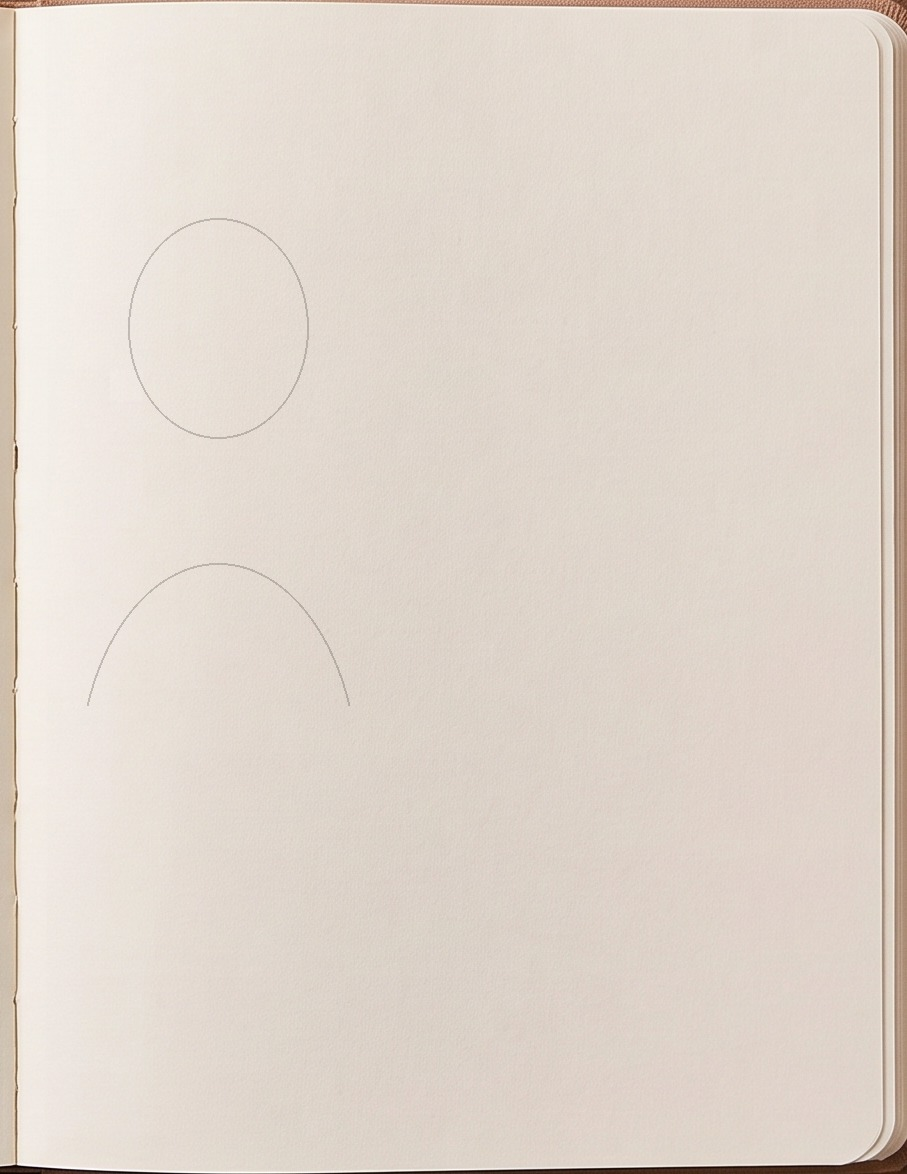
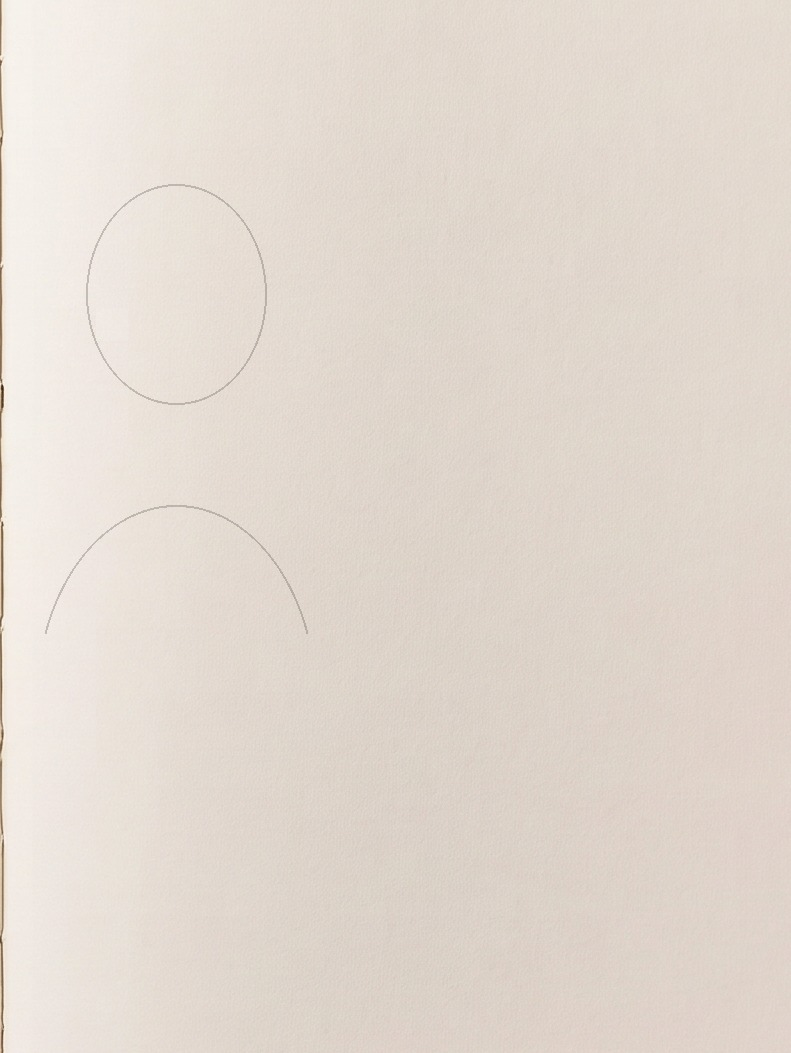
Fix desktop fullscreen morph and crop pages without cover.
Animate the screen morph to true viewport size before handing off to
the desktop shell, and tighten sketchbook page faces to cream paper only.

diff --git a/src/App.tsx b/src/App.tsx
@@ -3,7 +3,6 @@ import gsap from 'gsap'
 import { DeskScene, type DeskMode } from './components/DeskScene'
 import { DesktopBrowser } from './components/DesktopBrowser'
 import { HomeView } from './components/HomeView'
-import { SCREEN_RECT } from './lib/config'
 import './App.css'
 
 type Mode = 'home' | 'desk' | 'desktop'
@@ -54,17 +53,10 @@ export default function App() {
     const morph = morphRef.current
     if (!morph) return
 
-    const screenAspect = SCREEN_RECT.width / SCREEN_RECT.height
-    const vh = window.innerHeight
+    // Morph must end at the true fullscreen desktop shell (100vw × 100dvh).
+    // Letterboxing here caused a hard jump when DesktopBrowser mounted full-bleed.
     const vw = window.innerWidth
-    let endW = vw
-    let endH = endW / screenAspect
-    if (endH > vh) {
-      endH = vh
-      endW = endH * screenAspect
-    }
-    const endL = (vw - endW) / 2
-    const endT = (vh - endH) / 2
+    const vh = window.innerHeight
 
     if (zoomDirection.current === 'in') {
       gsap.set(morph, {
@@ -80,16 +72,19 @@ export default function App() {
         onComplete: () => {
           setMode('desktop')
           setDeskMode('desktop')
-          gsap.set(morph, { display: 'none' })
+          // Keep morph up one frame so the browser can paint underneath, then hide.
+          requestAnimationFrame(() => {
+            gsap.set(morph, { display: 'none', opacity: 0 })
+          })
         },
       })
       tl.to(morph, {
-        left: endL,
-        top: endT,
-        width: endW,
-        height: endH,
+        left: 0,
+        top: 0,
+        width: vw,
+        height: vh,
         borderRadius: 0,
-        duration: 0.95,
+        duration: 1.05,
         ease: 'power3.inOut',
       })
       return () => {
@@ -99,17 +94,17 @@ export default function App() {
 
     gsap.set(morph, {
       display: 'block',
-      left: endL,
-      top: endT,
-      width: endW,
-      height: endH,
+      left: 0,
+      top: 0,
+      width: vw,
+      height: vh,
       opacity: 1,
       borderRadius: 0,
     })
     const tl = gsap.timeline({
       onComplete: () => {
         setDeskMode('room')
-        gsap.set(morph, { display: 'none' })
+        gsap.set(morph, { display: 'none', opacity: 0 })
       },
     })
     tl.to(morph, {
@@ -118,7 +113,7 @@ export default function App() {
       width: fromRect.width,
       height: fromRect.height,
       borderRadius: 2,
-      duration: 0.85,
+      duration: 0.9,
       ease: 'power3.inOut',
     })
     return () => {

diff --git a/src/lib/config.ts b/src/lib/config.ts
@@ -51,11 +51,12 @@ export const NOTEBOOK = {
  * replace art when real pages arrive — turn animation stays the same.
  */
 export const SKETCHBOOK = {
+  /** Cream paper only — excludes khaki cover border around the spread. */
   pageRect: {
-    left: 0.16569767441860464,
-    top: 0.11393229166666667,
-    width: 0.6587936046511628,
-    height: 0.7643229166666666,
+    left: 0.19949127906976744,
+    top: 0.15364583333333334,
+    width: 0.5882994186046512,
+    height: 0.685546875,
   },
   spreads: [
     {

diff --git a/src/components/DesktopBrowser.tsx b/src/components/DesktopBrowser.tsx
@@ -16,10 +16,9 @@ export function DesktopBrowser({ active, onExit }: DesktopBrowserProps) {
 
   useEffect(() => {
     if (!shellRef.current) return
-    gsap.to(shellRef.current, {
+    // Appear instantly when active so the morph→desktop handoff does not flash/jump.
+    gsap.set(shellRef.current, {
       opacity: active ? 1 : 0,
-      duration: active ? 0.2 : 0.15,
-      ease: 'power1.out',
       pointerEvents: active ? 'auto' : 'none',
     })
   }, [active])

diff --git a/src/App.css b/src/App.css
@@ -12,13 +12,13 @@
 
 .screen-morph {
   position: fixed;
-  z-index: 45;
+  z-index: 55;
   overflow: hidden;
   pointer-events: none;
-  background: transparent;
+  background: #f4f4f6;
 }
 
-.screen-morph-img {
+.screen-morph__img {
   display: block;
   width: 100%;
   height: 100%;

diff --git a/src/components/SketchbookPages.css b/src/components/SketchbookPages.css
@@ -29,6 +29,9 @@
   background-position: center;
   border: 0;
   padding: 0;
+  /* Soft clip so cover fringe never peeks from page faces */
+  overflow: hidden;
+  background-color: #f3eee6;
 }
 
 .page-half--left {
